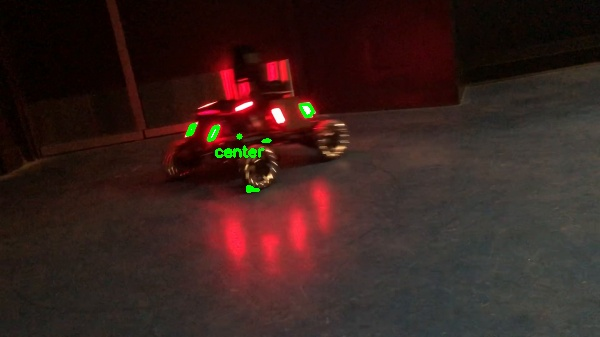
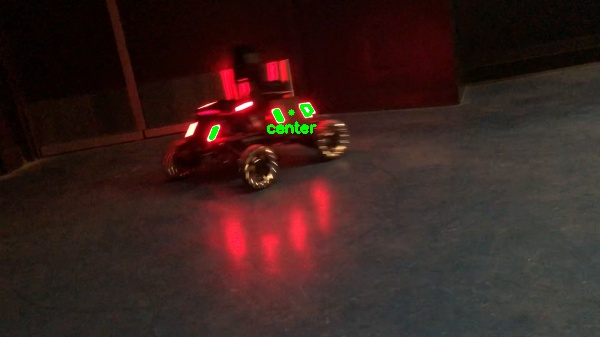
Made saliency/blurr switch, changed dx threshold, support pentagons and rectangles

Changed region(s): [[0.3, 0.2967, 0.54, 0.4748], [0.39, 0.5341, 0.45, 0.5935]]

diff --git a/detectArmour_image.py b/detectArmour_image.py
@@ -12,6 +12,8 @@ ap.add_argument("-i", "--image", required=True,
 	help="path to the input image")
 ap.add_argument("--save", required=True, 
 	help="Path to saved image directory")
+ap.add_argument("--method", required=True, 
+	help="For saliency map, input 'saliency', for gray to blur, input 'blur'")
 args = vars(ap.parse_args())
 
 def saveToDisk(img, imgName): 
@@ -24,22 +26,26 @@ def saveToDisk(img, imgName):
 
 # load the image and resize it to a smaller factor so that
 # the shapes can be approximated better
+width = 600  #seems to be optimum for shape detector
 image = cv2.imread(args["image"])
-image = imutils.resize(image, width=600)
+image = imutils.resize(image, width=width)
 
-# find saliency map of image, then threshold the LEDs
-saliency = cv2.saliency.StaticSaliencyFineGrained_create()
-(success, saliencyMap) = saliency.computeSaliency(image)
-saliencyMap = (saliencyMap * 255).astype("uint8")
+if args['method'] == 'saliency': 
+	# find saliency map of image, then threshold the LEDs
+	saliency = cv2.saliency.StaticSaliencyFineGrained_create()
+	(success, saliencyMap) = saliency.computeSaliency(image)
+	saliencyMap = (saliencyMap * 255).astype("uint8")
 
-cv2.imshow("saliency", saliencyMap)
-cv2.waitKey(0)
-
-thresh = cv2.threshold(saliencyMap.astype("uint8"), 210, 255,
-	cv2.THRESH_BINARY)[1]
-
-#cv2.imshow("blurred", blurred)
-#cv2.waitKey(0)
+	cv2.imshow("saliency", saliencyMap)
+	cv2.waitKey(0)
+	thresh = cv2.threshold(saliencyMap.astype("uint8"), 210, 255,
+		cv2.THRESH_BINARY)[1]
+else:
+	gray = cv2.cvtColor(image, cv2.COLOR_BGR2GRAY)
+	blurred = cv2.GaussianBlur(gray, (5, 5), 0)
+	thresh = cv2.threshold(blurred, 250, 255, cv2.THRESH_BINARY)[1]
+	cv2.imshow("blurred", blurred)
+	cv2.waitKey(0)
 
 cv2.imshow("thresh", thresh)
 cv2.waitKey(0)
@@ -49,10 +55,10 @@ cnts = cv2.findContours(thresh.copy(), cv2.RETR_EXTERNAL,
 	cv2.CHAIN_APPROX_SIMPLE)
 cnts = imutils.grab_contours(cnts)
 
-# initialize shape detector, rectangle count, and list of rectangle 
+# initialize shape detector, quadrilateral count, and list of quadrilateral 
 # coordinates
 sd = ShapeDetector()
-rectangles = []
+quadrilaterals = []
 
 # loop over the contours
 for c in cnts:
@@ -68,28 +74,29 @@ for c in cnts:
 	shape = sd.detect(c)
  
 	# find rectangular contours,add the center coordinates to list, and 
-	# increase the rectangle count
-	if shape == "rectangle":
+	# increase the quadrilateral count
+	if shape == "rectangle" or shape == "pentagon":
 		c = c.astype("float")
 		c = c.astype("int")
 		cv2.drawContours(image, [c], -1, (0, 255, 0), 2)
 		coord = [cX, cY]
-		rectangles.append(coord)
+		quadrilaterals.append(coord)
 
 		# show the output image
 		cv2.imshow("Image", image)
+		print(shape)
 		cv2.waitKey(0)
 
-print("rectangles: " + str(len(rectangles)))
+print("quadrilaterals: " + str(len(quadrilaterals)))
 
 i = 0
-while i < len(rectangles)-1:
-	# determine if two *adjacent* rectangles exist with a flat slope between them
-	dx = abs(rectangles[i][0] - rectangles[i+1][0])
+while i < len(quadrilaterals)-1:
+	# determine if two *adjacent* quadrilaterals exist with a flat slope between them
+	dx = abs(quadrilaterals[i][0] - quadrilaterals[i+1][0])
 	if dx == 0:
 		dx = 0.0001
 	print("\ndx: " + str(dx))
-	dy = abs(rectangles[i][1] - rectangles[i+1][1])
+	dy = abs(quadrilaterals[i][1] - quadrilaterals[i+1][1])
 	if dy == 0: 
 		dy = 0.0001
 	print("dy: " + str(dy))
@@ -98,11 +105,11 @@ while i < len(rectangles)-1:
 	print("dy/dx: " + str(slope))
 	print("dx/dy: " + str(dx/dy))
 
-	# if slope is close to flat, then matching rectangles found
-	if (slope < 0.3 and (dx/dy < 9)): 
-		# average the two rectangles' center coordinates
-		targetcX = int((rectangles[i][0] + rectangles[i+1][0]) / 2.0)
-		targetcY = int((rectangles[i][1] + rectangles[i+1][1]) / 2.0)
+	# if slope is close to flat, then matching quadrilaterals found
+	if slope < 0.3 and dx<1/11*width: 
+		# average the two quadrilaterals' center coordinates
+		targetcX = int((quadrilaterals[i][0] + quadrilaterals[i+1][0]) / 2.0)
+		targetcY = int((quadrilaterals[i][1] + quadrilaterals[i+1][1]) / 2.0)
 		cv2.circle(image, (targetcX, targetcY), 3, (0, 255, 0), -1)
 		cv2.putText(image, "center", (targetcX-25, targetcY+20), 
 			cv2.FONT_HERSHEY_SIMPLEX, 0.5, (0, 255, 0), 2)

diff --git a/README.md b/README.md
@@ -1,20 +1,20 @@
 # Robomaster Armour Detector
-This detector is intended to locate the center of the robot's armour panel. It works reasonably well given the panel is facing directly at the camera and the camera is not tilted. It struggles in situations where the LED strips are not vertical or are obstructed.
+This detector is intended to locate the center of the robot's armour panel. It works best when the panel is facing the camera and the background is not too bright and noisy. It struggles in situations where the LED strips are not vertical or are obstructed. It also struggles when the panels are far away from the camera, and the LEDs looks like vertical lines rather than rectangles.
 
 ### Run 
 ```
-python detectArmour_image.py -i dataset/RoboMasterLabelledImagesSet1/image-550.jpg --save ./output/
+python detectArmour_image.py -i dataset/RoboMasterLabelledImagesSet1/image-550.jpg --save ./output/ --method blurr
 ```
 
 ### Method
 
-- use saliency to bring out the important parts of the image
-- threshold the image at 210 pixels to isolate the strips
-- use a shape detector to find the rectangular LED strips
-- find the center coordinates of the rectangular LED strips
-- compare the slopes between rectangles and choose the one with a slope close to 0
-- also check that distanceX is not signifactly larger than distanceY
-- find the center of the target using the two LED strips on the sides of the target
+- use a switch to choose between a saliency map or a gray to gaussian blur of the image (blurr tends to work better)
+- threshold the image to isolate the strips
+- use a shape detector to find the rectangular+pentagonal LED strips
+- find the center coordinates of the LED strips
+- compare the slopes between detections and choose the one with a slope close to 0
+- also check that horizontal distance between detections is below a certain limit
+- find the center of the target by averaging the coordinates of the two LED strips on the sides of the target
 
 
 ### Output
